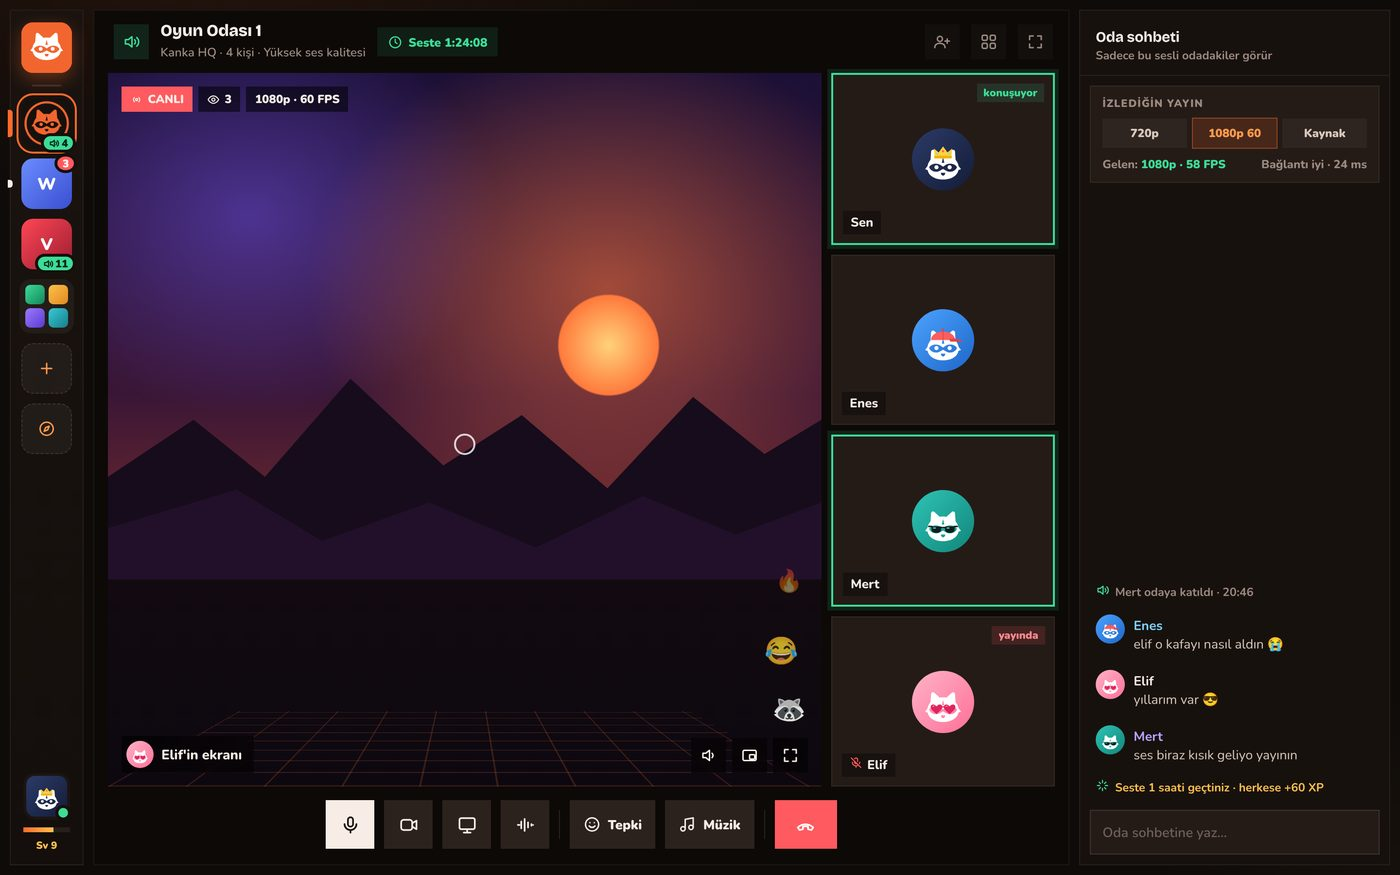
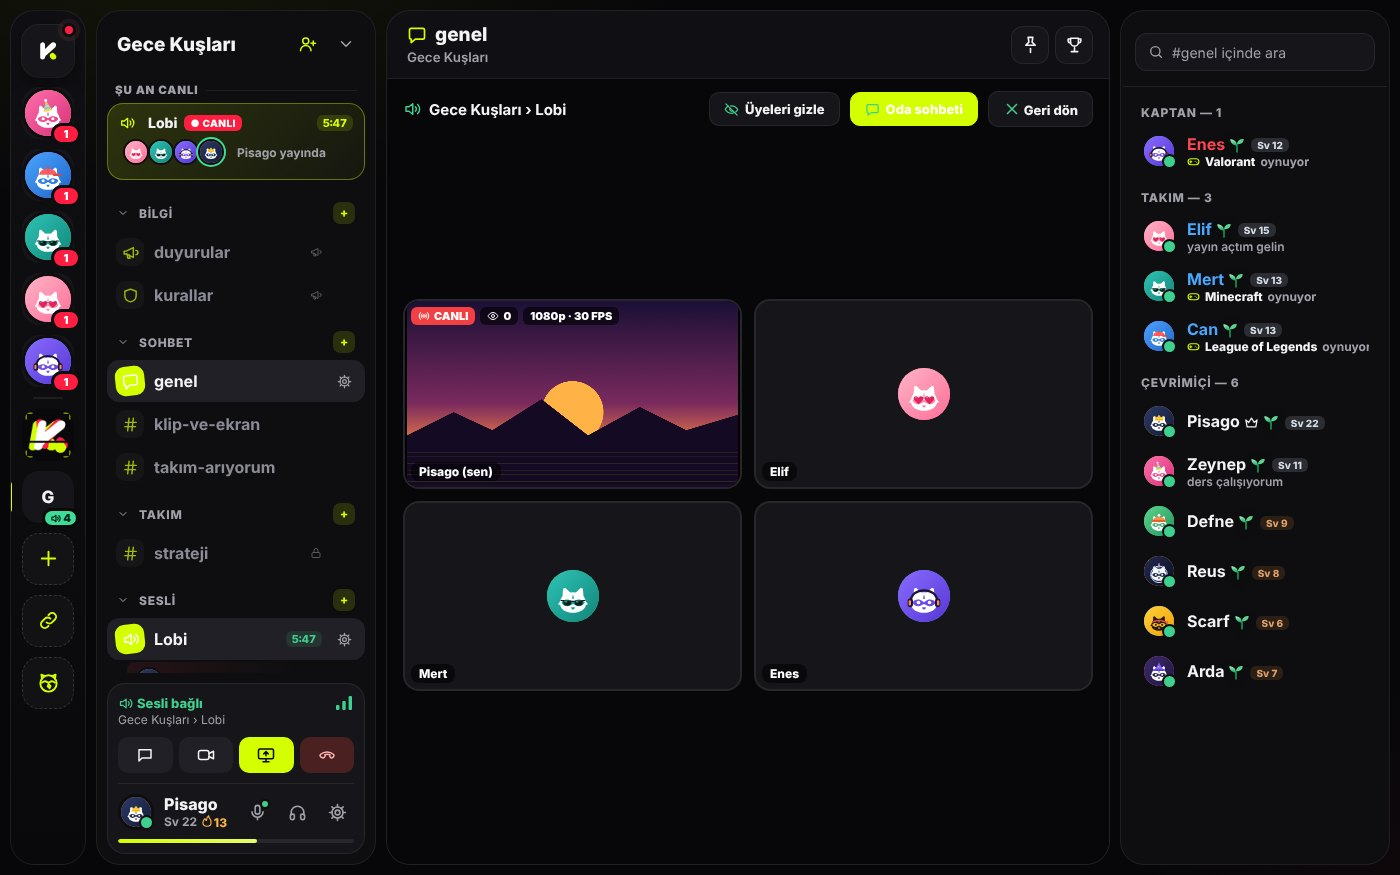
Tanıtım sayfası yeni Noir temada: ekran görüntüleri yenilendi
- Sesli oda + yayın, Yuva, sunucu sohbeti, arkadaşlar, telefon ve paylaşım görseli yeni arayüzden yeniden çekildi
- Sayfadaki turuncu vurgular (çerez kutusu, kart simgeleri, alt bölüm ışığı) yeşil-sarı Noir vurguya geçti
- Hero'daki yüzen kartlar yeni görsele uyduruldu
- Kullanıcı kartında seviye satırı sığacak kadar kısaldı (Sv 22 🔥13)

Claude-Session: https://claude.ai/code/session_01PYpKKv5TNk59vAndhU7jXR

diff --git a/public/sesli-sohbet.html b/public/sesli-sohbet.html
@@ -106,7 +106,7 @@
   .cards { display:grid; grid-template-columns:repeat(3,1fr); gap:20px; text-align:left; }
   .card { background:var(--card); border:1px solid var(--line); border-radius:20px; padding:28px; transition:transform .2s, border-color .2s; }
   .card:hover { transform:translateY(-4px); border-color:#6a4a36; }
-  .card .ico { width:52px; height:52px; border-radius:15px; display:grid; place-items:center; font-size:26px; margin-bottom:18px; background:#ff8a4c1f; }
+  .card .ico { width:52px; height:52px; border-radius:15px; display:grid; place-items:center; font-size:26px; margin-bottom:18px; background:#d4ff001a; }
   .card h3 { font-size:20px; font-weight:800; margin-bottom:8px; }
   .card p { color:var(--muted); font-size:15.5px; }
 
@@ -120,7 +120,7 @@
   details p { color:#d4c3b7; margin-top:10px; }
 
   /* kapanış */
-  .final { padding:120px 0 140px; text-align:center; position:relative; overflow:hidden; background:radial-gradient(900px 420px at 50% 100%, #ff8a4c30, transparent 70%), var(--bg); }
+  .final { padding:120px 0 140px; text-align:center; position:relative; overflow:hidden; background:radial-gradient(900px 420px at 50% 100%, #d4ff0022, transparent 70%), var(--bg); }
   .final img.mark { width:96px; height:96px; border-radius:26px; margin:0 auto 28px; box-shadow:0 20px 50px rgba(255,110,60,.35); animation:float 6s ease-in-out infinite; }
   .final h2 { font-size:clamp(38px,6vw,72px); text-transform:uppercase; letter-spacing:-2px; margin-bottom:18px; }
   .final p { color:var(--muted); font-size:19px; margin-bottom:34px; }
@@ -169,8 +169,8 @@
     <div class="stage">
       <div class="shot main"><img src="/marka/lp/ses.jpg" alt="Kanka Chat sesli oda ve canlı yayın ekranı" width="1400" height="875"></div>
       <div class="shot phone"><img src="/marka/lp/mobil.jpg" alt="Kanka Chat telefonda" width="640" height="1152"></div>
-      <div class="bubble b1"><div class="av" style="background:#3fcf8e26">🎧</div><div>Oyun Odası 1<small>4 kişi seste · 1:24</small></div></div>
-      <div class="bubble b2"><div class="av" style="background:#ff8a4c26">🔥</div><div>Elif yayında<small>Kanka HQ · 3 izleyen</small></div></div>
+      <div class="bubble b1"><div class="av" style="background:#3fcf8e26">🎧</div><div>Lobi<small>4 kişi seste · 4:00</small></div></div>
+      <div class="bubble b2"><div class="av" style="background:#d4ff0026">🔥</div><div>Pisago yayında<small>Gece Kuşları · 1080p</small></div></div>
     </div>
   </div>
   <div class="fade"></div>
@@ -279,12 +279,12 @@
   document.querySelectorAll('.reveal').forEach(function (el) { io ? io.observe(el) : el.classList.add('in'); });
 </script>
 
-<div id="cerez" hidden style="position:fixed;left:16px;right:16px;bottom:16px;z-index:9999;max-width:560px;margin:0 auto;background:#1c1512;border:1px solid #3a2c25;border-radius:18px;padding:16px 18px;box-shadow:0 20px 50px rgba(0,0,0,.5);color:#f3e9e1;font:14px/1.5 system-ui,-apple-system,Segoe UI,sans-serif">
+<div id="cerez" hidden style="position:fixed;left:16px;right:16px;bottom:16px;z-index:9999;max-width:560px;margin:0 auto;background:#141417;border:1px solid #2a2a30;border-radius:18px;padding:16px 18px;box-shadow:0 20px 50px rgba(0,0,0,.5);color:#f4f4f5;font:14px/1.5 system-ui,-apple-system,Segoe UI,sans-serif">
   <b style="display:block;font-size:15px;margin-bottom:4px">🍪 Çerez tercihin</b>
-  <span style="color:#c9b8aa">Reklamlarımızın işe yarayıp yaramadığını ölçmek için bu tanıtım sayfasında Google çerezlerini kullanmak istiyoruz. Uygulamanın içinde reklam ya da takip çerezi yok. <a href="/gizlilik.html#cerez" style="color:#ff9a62">Ayrıntılar</a></span>
+  <span style="color:#a1a1aa">Reklamlarımızın işe yarayıp yaramadığını ölçmek için bu tanıtım sayfasında Google çerezlerini kullanmak istiyoruz. Uygulamanın içinde reklam ya da takip çerezi yok. <a href="/gizlilik.html#cerez" style="color:#d4ff00">Ayrıntılar</a></span>
   <div style="display:flex;gap:8px;margin-top:12px;flex-wrap:wrap">
-    <button id="cerez-evet" style="flex:1;min-width:120px;height:40px;border:0;border-radius:12px;background:#ff8a4c;color:#1a0f08;font-weight:800;cursor:pointer">Kabul et</button>
-    <button id="cerez-hayir" style="flex:1;min-width:120px;height:40px;border:1px solid #3a2c25;border-radius:12px;background:transparent;color:#f3e9e1;font-weight:700;cursor:pointer">Reddet</button>
+    <button id="cerez-evet" style="flex:1;min-width:120px;height:40px;border:0;border-radius:12px;background:#d4ff00;color:#0b0f00;font-weight:800;cursor:pointer">Kabul et</button>
+    <button id="cerez-hayir" style="flex:1;min-width:120px;height:40px;border:1px solid #2a2a30;border-radius:12px;background:transparent;color:#f4f4f5;font-weight:700;cursor:pointer">Reddet</button>
   </div>
 </div>
 <script>

diff --git a/public/index.html b/public/index.html
@@ -8869,7 +8869,7 @@ function renderMe() {
   { let x = $('#me-xp'); if (!x) { $('#me .row1').insertAdjacentHTML('afterend', '<div id="me-xp" title=""><i></i></div>'); x = $('#me-xp'); }
     const lo = lvlFloor(u.level), hi = lvlFloor(u.level + 1), pct = Math.max(2, Math.min(100, Math.round((u.xp - lo) / (hi - lo) * 100)));
     x.firstChild.style.width = pct + '%'; x.title = `Seviye ${u.level} · ${u.xp} / ${hi} XP`; }
-  $('#me-lvl').innerHTML = actLine(S.me) || (u.status ? esc(u.status) : '') || `<span title="Seviye ${u.level}${u.streak ? ` · ${u.streak} günlük seri` : ''}">Sv ${u.level}${u.streak ? ` · <span class="streak">${ic('fire')} ${u.streak}</span>` : ''}</span>`;
+  $('#me-lvl').innerHTML = actLine(S.me) || (u.status ? esc(u.status) : '') || `<span title="Seviye ${u.level}${u.streak ? ` · ${u.streak} günlük seri` : ''}">Sv ${u.level}${u.streak ? ` <span class="streak">${ic('fire')}${u.streak}</span>` : ''}</span>`;
 }
 function setPresence(list) {
   const pairs = (list || []).map(x => Array.isArray(x) ? x : [x, 'online']);
